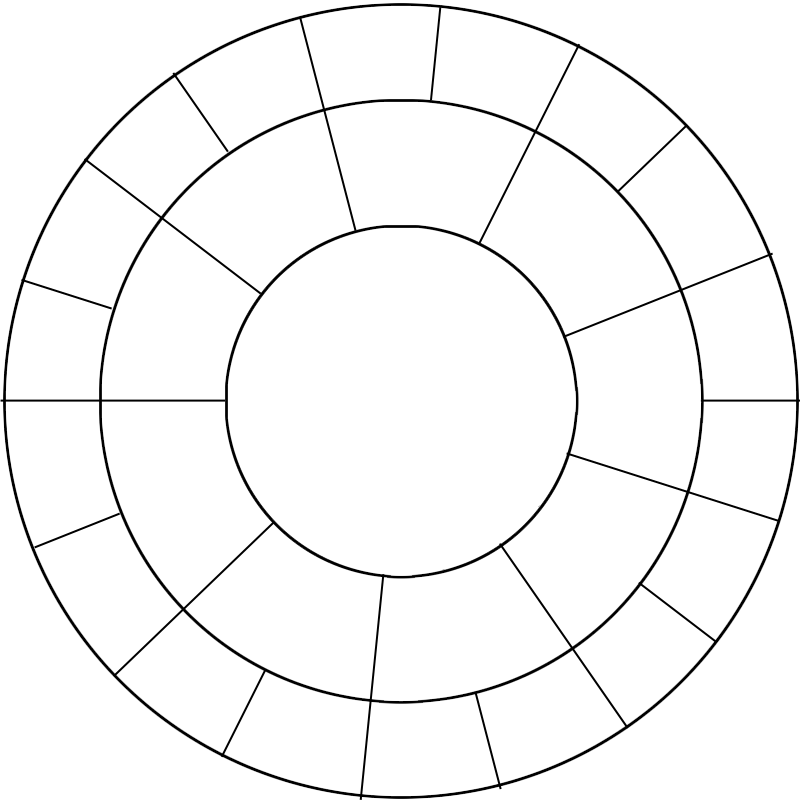
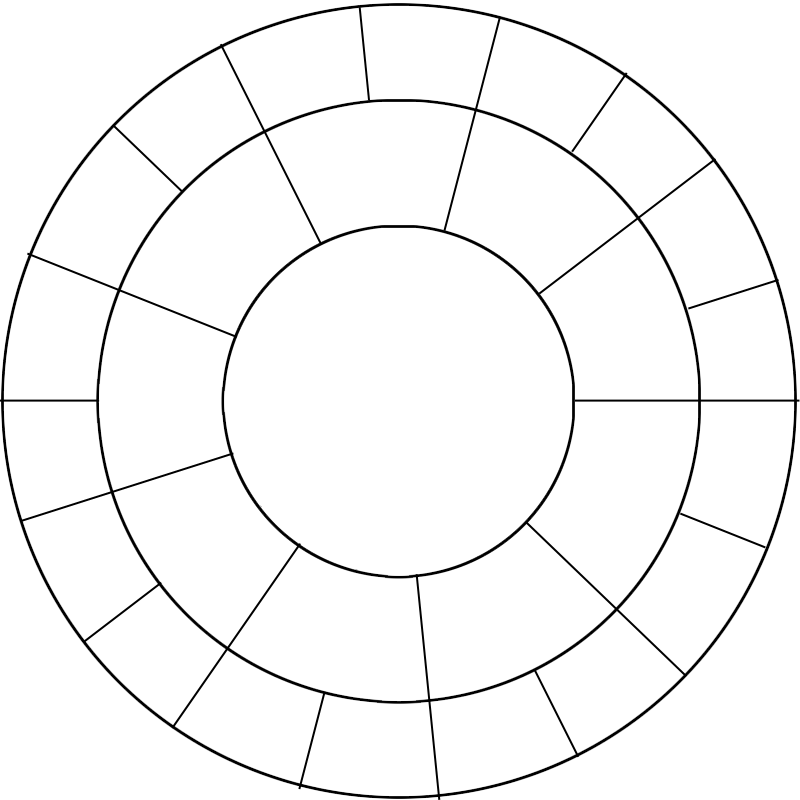
Fix board orientation

diff --git a/rps3env/envs/rps3_game.py b/rps3env/envs/rps3_game.py
@@ -46,9 +46,9 @@ BOARD_TEMPLATE = """
 """
 
 BOARD_POSITIONS = {
-    'O': [(560, 260), (530, 180), (480, 110), (410, 60), (320, 40), (230, 50), (150, 85), (80, 160), (45, 250),
-          (40, 340), (70, 420), (120, 490), (190, 540), (285, 565), (375, 550), (460, 510), (520, 440), (560, 350)],
-    'I': [(475, 300), (440, 190), (345, 130), (220, 145), (135, 235), (135, 360), (200, 445), (320, 475), (440, 420)],
+    'O': [(557, 250), (518, 156), (455, 89), (371, 49), (279, 38), (191, 62), (119, 110), (67, 180), (42, 259),
+          (42, 347), (78, 440), (147, 512), (228, 550), (321, 559), (408, 536), (478, 489), (531, 420), (558, 339)],
+    'I': [(463, 234), (380, 141), (255, 128), (158, 191), (122, 305), (172, 421), (283, 475), (400, 444), (467, 355)],
     'C': [(300, 300)]
 }
 
